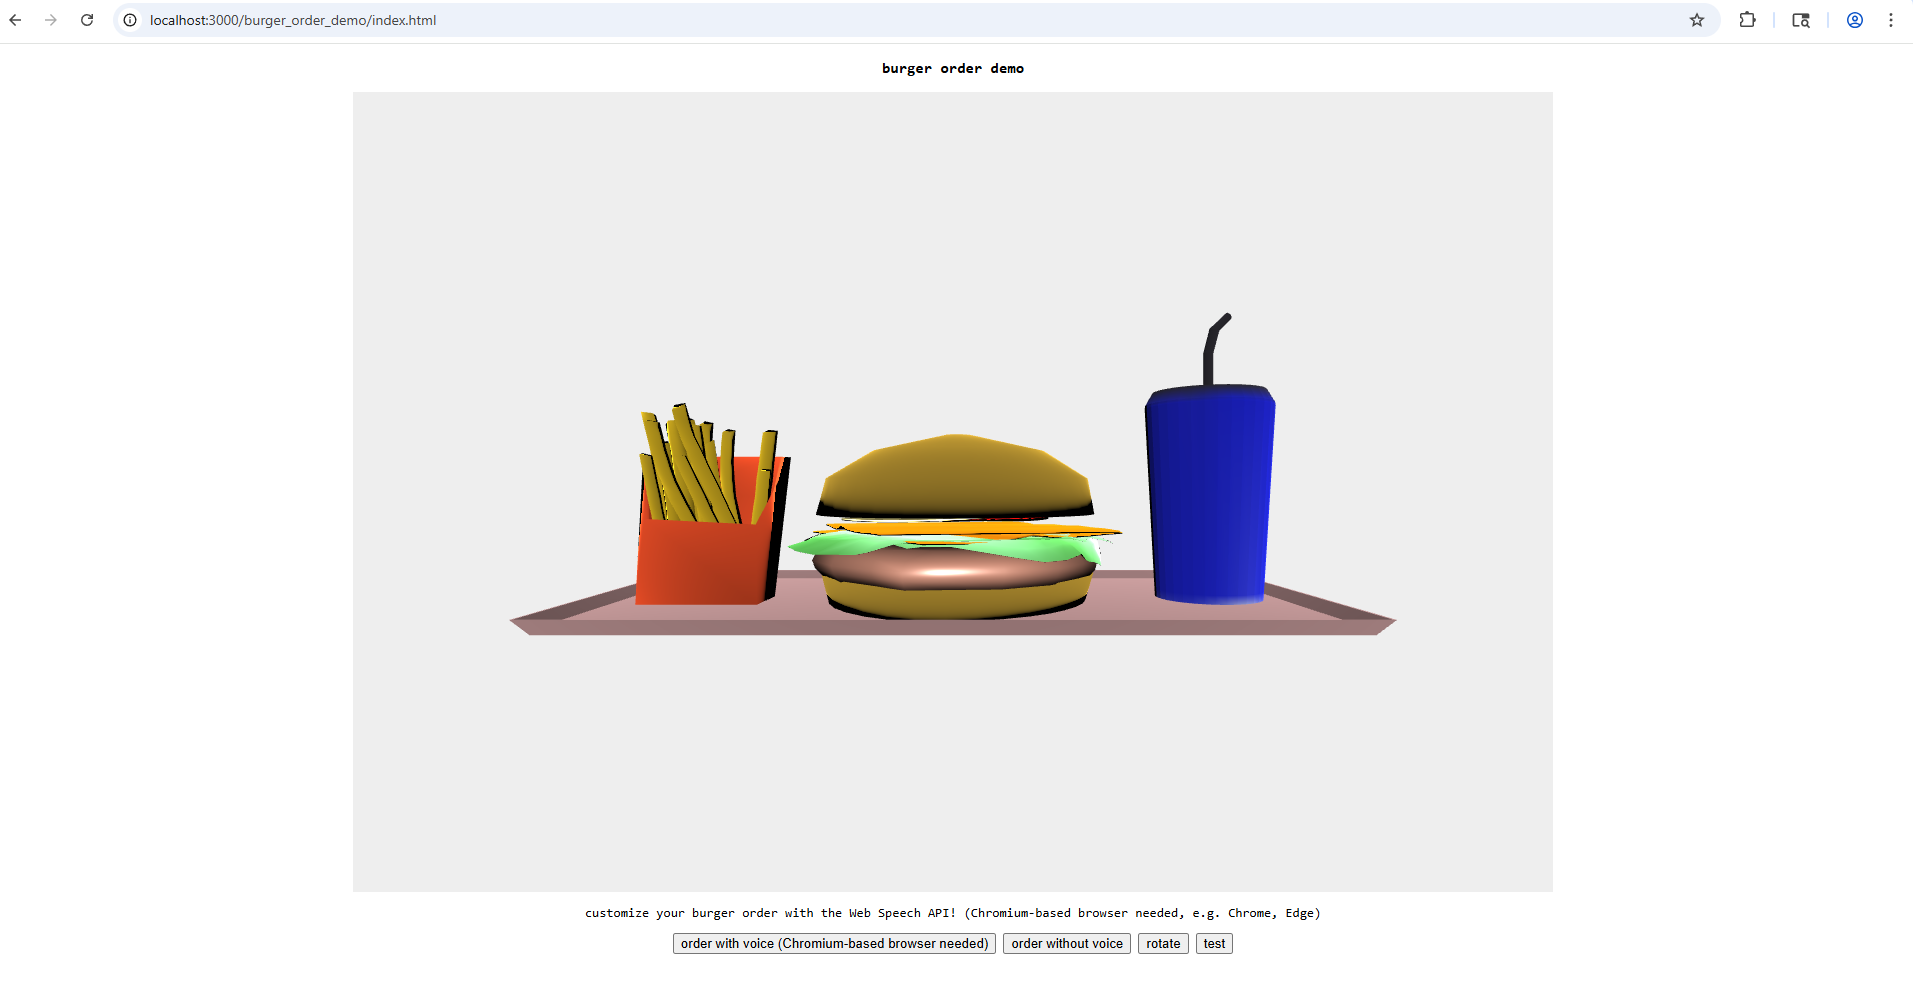
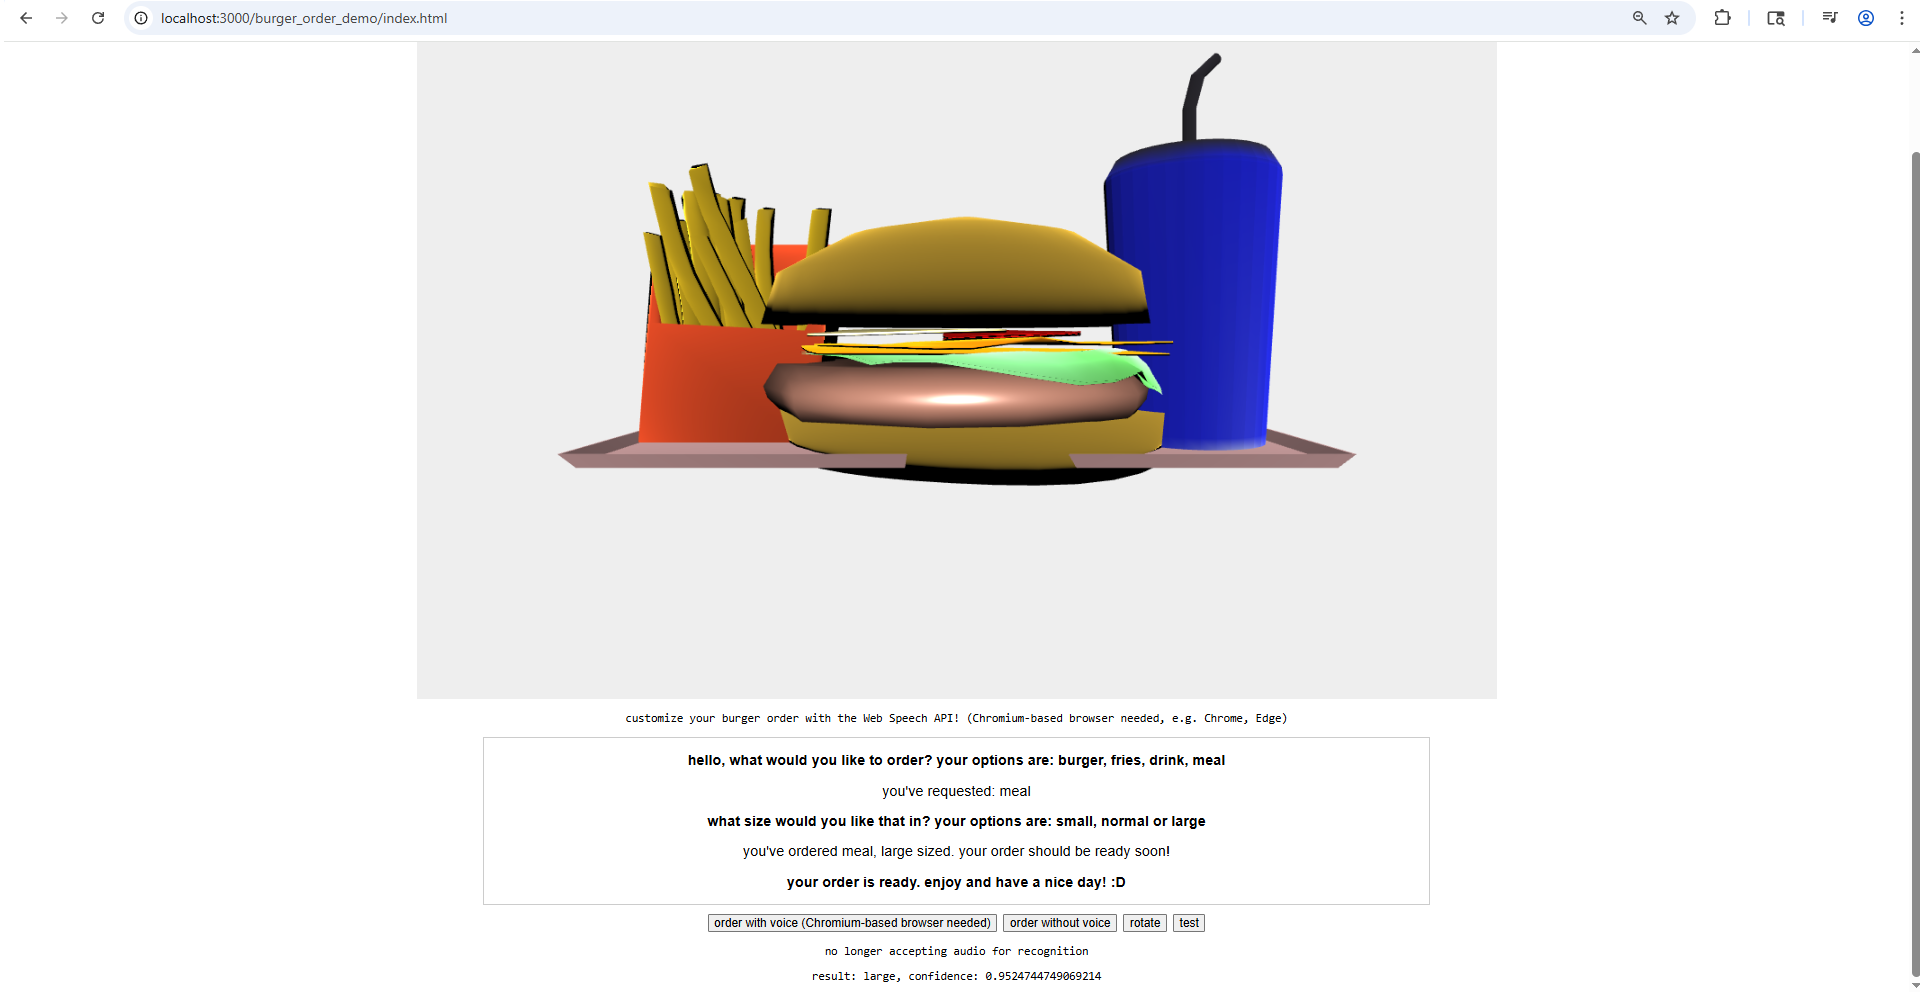
support voice order

diff --git a/burger_order_demo/index.js b/burger_order_demo/index.js
@@ -246,6 +246,115 @@ function assembleOrder(order, size){
   scene.add(orderGroup);
 }
 
+// TODO: have order be read back + prompts be read by synthetic voice?
+const prompt1 = 'hello, what would you like to order? your options are: burger, fries, drink, meal';
+const prompt2 = 'what size would you like that in? your options are: small, normal or large';
+const prompt3 = 'your order is ready. enjoy and have a nice day! :D';
+
+function orderWithVoice(){
+  console.log('ordering with voice');
+  
+  const orderLog = document.getElementById('orderLog');
+  
+  let currPromptNum = 1;
+  let order = '';
+  let orderSize = 'normal';
+  
+  function addToOrderLog(string, bold){
+    const newp = document.createElement('p');
+    newp.style.fontFamily = 'arial';
+    if(bold){
+      newp.style.fontWeight = 'bold';
+    }
+    newp.textContent = string;
+    orderLog.appendChild(newp);
+  }
+  
+  function clearOrderLog(){
+    while(orderLog.children.length > 0){
+      for(let child of orderLog.children){
+        //console.log('removing child');
+        child.parentNode.removeChild(child);
+      }
+    }
+  }
+  
+  clearOrderLog();
+ 
+  currPromptNum = 1;
+  addToOrderLog(prompt1, true);
+  
+  const recognition = new SpeechRecognition();
+  recognition.continuous = true;
+  recognition.lang = 'en-US';
+  recognition.interimResults = false;
+  recognition.maxAlternatives = 1;
+  
+  recognition.onresult = (evt) => {
+    console.log(evt);
+    
+    const textDisplay = document.getElementById('textDisplay');
+    while(textDisplay.firstChild){
+      textDisplay.removeChild(textDisplay.firstChild);
+    }
+    
+    let detectedSpeechSoFar = '';
+    const results = evt.results;
+    console.log(results);
+    
+    if(results.length > 0){
+      const detectedSpeech = results[currPromptNum-1][0].transcript;
+      const confidence = results[currPromptNum-1][0].confidence;
+      
+      const newText = document.createElement('p');
+      newText.textContent = `result: ${detectedSpeech}, confidence: ${confidence}`;  
+      textDisplay.appendChild(newText);
+      
+      if(currPromptNum === 1){
+        order = detectedSpeech.toLowerCase().trim();
+        currPromptNum++;
+        addToOrderLog(`you've requested: ${order}`);
+        addToOrderLog(prompt2, true);
+      }else if(currPromptNum === 2){
+        const requestedSize = detectedSpeech;
+        if(detectedSpeech.includes('small')){
+          orderSize = 'small';
+        }else if(detectedSpeech.includes('large')){
+          orderSize = 'large';
+        }
+        
+        addToOrderLog(`you've ordered ${order}, ${orderSize} sized. your order should be ready soon!`);
+        
+        // create order
+        assembleOrder(order, orderSize);
+        
+        // we're done
+        addToOrderLog(prompt3, true);
+        
+        recognition.stop();
+      }else if(currPromptNum === 3){
+        // TODO: ask about burger customizations
+      }
+    };
+  };
+  
+  recognition.onspeechend = () => {
+    console.log('stopping recognition');
+    document.getElementById('speechDetectionStatus').textContent = 'no longer accepting audio for recognition';
+    recognition.stop();
+  };
+  
+  recognition.onnomatch = (evt) => {
+    console.log('no match');
+  };
+  
+  recognition.onerror = (evt) => {
+    console.log('error: ' + evt.error);
+  };
+  
+  recognition.start();
+}
+
 function orderWithoutVoice(){
   // prompt for order
   const orderPrompt = prompt('hello, what would you like to order? your options are: burger, fries, drink, meal');
@@ -260,7 +369,7 @@ function orderWithoutVoice(){
     assembleOrder(orderPrompt, size);
   }
   
-  alert('have a nice day!');
+  alert('your order is ready. enjoy and have a nice day!');
 }
 
 // this is just for simple testing with speech recognition
@@ -273,7 +382,7 @@ function test(){
   
   recognition.start();
   
-  recognition.onresult = function(evt){
+  recognition.onresult = (evt) => {
     console.log(evt);
     
     const textDisplay = document.getElementById('textDisplay');
@@ -309,27 +418,29 @@ function test(){
     };
   };
   
-  recognition.onspeechend = function(){
+  recognition.onspeechend = () => {
     console.log('stopping recognition');
     document.getElementById('speechDetectionStatus').textContent = 'no longer accepting audio for recognition';
     //recognition.stop();
   };
   
-  recognition.onnomatch = function(evt){
+  recognition.onnomatch = (evt) => {
     console.log('no match');
   };
   
-  recognition.onerror = function(evt){
+  recognition.onerror = (evt) => {
     console.log('error: ' + evt.error);
   };
 }
-document.getElementById('test').addEventListener('click', () => test());
+//document.getElementById('test').addEventListener('click', () => test());
 
 document.getElementById('test2').addEventListener('click', () => assembleOrder('meal', 'normal'));
 
 document.getElementById('rotate').addEventListener('click', () => rotate = !rotate);
 
 document.getElementById('orderWithoutVoice').addEventListener('click', () => orderWithoutVoice());
+
+document.getElementById('orderWithVoice').addEventListener('click', () => orderWithVoice());
 
 function update(){
   // move stuff around, etc.

diff --git a/burger_order_demo/index.html b/burger_order_demo/index.html
@@ -21,6 +21,13 @@
         text-align: center;
         margin: 0 auto;
       }
+      
+      #orderLog{
+        border: 1px solid #ccc;
+        margin: 0 auto;
+        margin-bottom: 10px;
+        width: 50%;
+      }
     </style>
   </head>
 
@@ -31,12 +38,12 @@
     </div>
     
     <p> customize your burger order with the Web Speech API! (Chromium-based browser needed, e.g. Chrome, Edge) </p>
-    <button id='test'>order with voice (Chromium-based browser needed)</button>
+    <div id='orderLog'></div>
+    <button id='orderWithVoice'>order with voice (Chromium-based browser needed)</button>
     <button id='orderWithoutVoice'>order without voice</button>
     <button id='rotate'>rotate</button>
     <button id='test2'>test</button>
     <p id='speechDetectionStatus'></p>
-    
     <div id='textDisplay'></div>
   </body>
 
